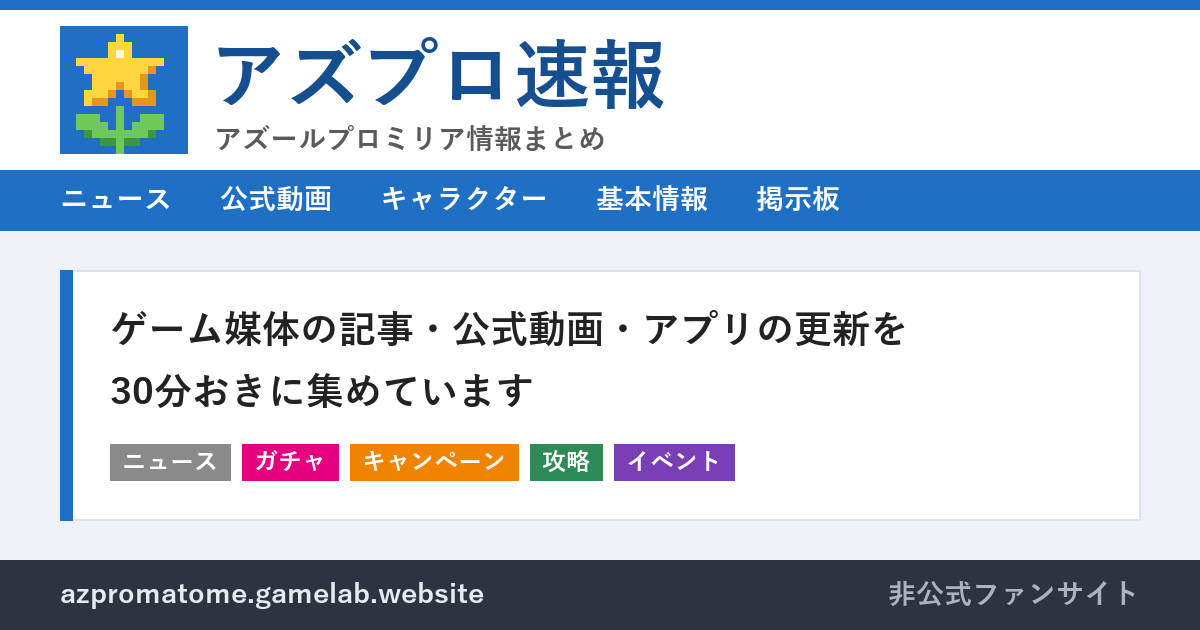
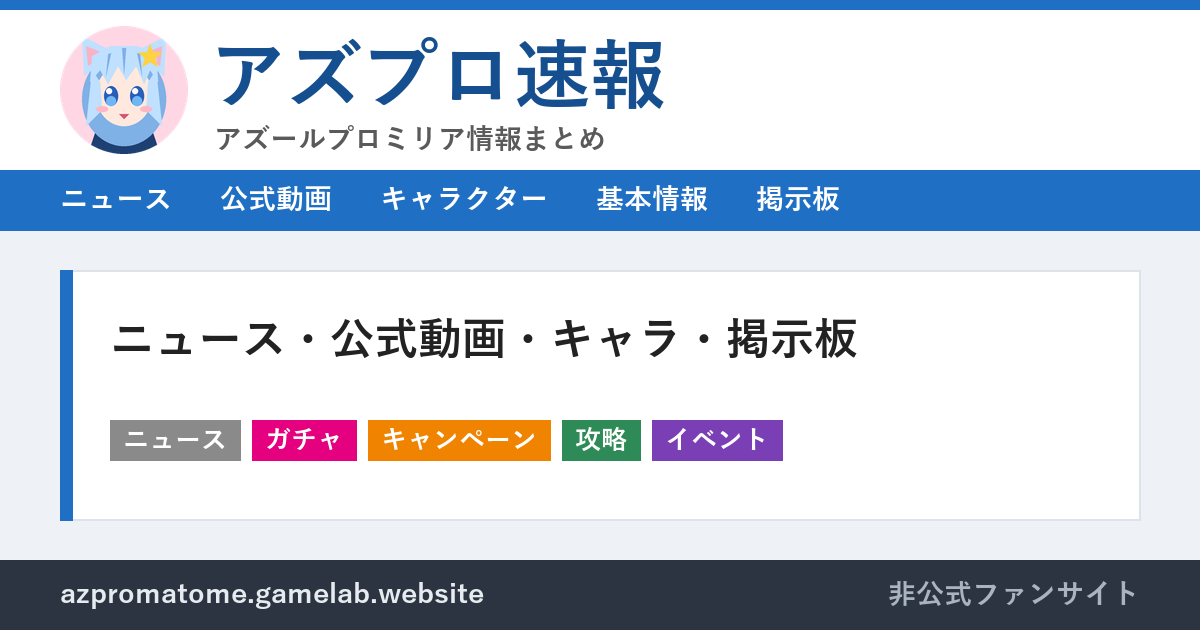
アイコンを女の子にし、説明文を減らし、トップの並びに変化をつける
- ロゴ・ファビコンをケモミミの女の子の顔（オリジナル）に変更
- 一覧の前置きや注記、掲示板の案内文などの説明を削除。キャラ紹介も短くする
- トップの一番上に大小 3 つの注目記事、話題と最新動画を並べ、
  キャラクターは立ち絵の横スクロール、公式動画は暗い帯にする
- サイドの再生数ランキングに順位を付ける

Changed region(s): [[0.0925, 0.573, 0.6783, 0.7841], [0.0925, 0.4825, 0.7708, 0.573], [0.0308, 0.0302, 0.1542, 0.2714]]

diff --git a/site/assets/app.css b/site/assets/app.css
@@ -80,10 +80,24 @@ h1.sec-t { font-size: 20px; }
 
 .noimg { display: flex; align-items: center; justify-content: center; width: 100%; aspect-ratio: 1.91 / 1; background: #d9e8f7; color: #556; font-size: 12px; font-weight: bold; text-align: center; padding: 4px; }
 
+/* ---------- 一番上の注目記事（大 1 + 小 2） ---------- */
+.logo-h { margin: 0; font-size: inherit; }
+.fe { display: grid; grid-template-columns: minmax(0, 1.7fr) minmax(0, 1fr); grid-template-rows: 1fr 1fr; gap: 6px; margin-bottom: 14px; }
+.fe-i { position: relative; display: block; overflow: hidden; background: #223; color: #fff; min-height: 150px; }
+.fe-i:hover { text-decoration: none; }
+.fe-big { grid-row: 1 / 3; min-height: 320px; }
+.fe-i img { position: absolute; inset: 0; width: 100%; height: 100%; object-fit: cover; transition: transform .3s; }
+.fe-i:hover img { transform: scale(1.04); }
+.fe-c { position: absolute; left: 0; right: 0; bottom: 0; padding: 28px 12px 10px; background: linear-gradient(transparent, rgba(0, 0, 0, .82)); }
+.fe-c b { display: block; font-size: 14px; line-height: 1.45; text-shadow: 0 1px 2px rgba(0, 0, 0, .6); }
+.fe-big .fe-c b { font-size: 20px; }
+.fe-c small { display: block; font-size: 11px; color: #ddd; margin-top: 2px; }
+.fe-c .tag { margin-bottom: 4px; }
+
 /* ---------- いま話題 + 最新の動画 ---------- */
-.top-h { font-size: 13px; font-weight: normal; color: #555; margin: 0 0 8px; }
-.pick { display: grid; grid-template-columns: minmax(0, 1.25fr) minmax(0, 1fr); gap: 14px; background: var(--panel); border: 1px solid var(--line); padding: 12px; margin-bottom: 14px; }
+.pick { display: grid; grid-template-columns: minmax(0, 1fr) minmax(0, 1fr); gap: 14px; background: var(--panel); border: 1px solid var(--line); padding: 12px; margin-bottom: 14px; }
 .pick-h { font-size: 15px; margin: 0 0 6px; padding: 2px 8px; color: #fff; background: var(--red); display: inline-block; }
+.pick-h-v { background: #222; }
 .pick .v { margin: 0; }
 .pick-more { list-style: none; margin: 10px 0 0; padding: 8px 0 0; border-top: 1px dotted #ccc; }
 .pick-more li + li { margin-top: 8px; }
@@ -138,6 +152,25 @@ h1.sec-t { font-size: 20px; }
 .v-m { font-size: 12px; color: var(--muted); margin: 2px 0 0; }
 .v-m span { margin-left: 6px; }
 .gain { color: #1c8c3c; font-weight: bold; }
+
+/* ---------- 見出しの色ちがい ---------- */
+.sec-pink .sec-t { border-left-color: #e4007f; border-bottom-color: #e4007f; background: #fff3f8; }
+.sec-dark { background: #1c2230; border-color: #1c2230; color: #e8ecf2; }
+.sec-dark .sec-t { background: #0f131b; border-left-color: #ffd23f; border-bottom-color: #ffd23f; color: #fff; }
+.sec-dark .sec-more, .sec-dark .v-t a { color: #cfe3ff; }
+.sec-dark .v-m { color: #9aa6b6; }
+.sec-dark .gain { color: #7fe39a; }
+.vg-4 { grid-template-columns: repeat(4, minmax(0, 1fr)); }
+.vg-4 .v-t { font-size: 12.5px; }
+
+/* ---------- キャラクターの帯（横にスクロール） ---------- */
+.cs { display: flex; gap: 8px; overflow-x: auto; scroll-snap-type: x mandatory; padding-bottom: 6px; }
+.cs-i { position: relative; flex: 0 0 132px; scroll-snap-align: start; display: block; background: #f3f5fa; overflow: hidden; color: #fff; }
+.cs-i:hover { text-decoration: none; }
+.cs-i img, .cs-i .noimg { width: 132px; height: 158px; object-fit: cover; object-position: top; display: block; transition: transform .3s; }
+.cs-i:hover img { transform: scale(1.06); }
+.cs-n { position: absolute; left: 0; right: 0; bottom: 0; padding: 18px 6px 5px; font-size: 13px; font-weight: bold; background: linear-gradient(transparent, rgba(40, 0, 30, .75)); }
+.cs-n .badge { margin: 0 4px 0 0; font-style: normal; }
 
 /* ---------- キャラクター ---------- */
 .cg { list-style: none; margin: 0; padding: 0; display: grid; grid-template-columns: repeat(7, minmax(0, 1fr)); gap: 10px 6px; }
@@ -223,7 +256,12 @@ h1.sec-t { font-size: 20px; }
 .bl li { padding: 4px 0; border-bottom: 1px dotted #ccc; }
 .bl .muted { margin-left: 4px; font-size: 12px; }
 .sv { list-style: none; margin: 0; padding: 0; counter-reset: sv; }
-.sv li { padding: 6px 0; border-bottom: 1px dotted #ccc; font-size: 13px; line-height: 1.4; }
+.sv li { display: grid; grid-template-columns: 20px minmax(0, 1fr); gap: 6px; padding: 6px 0; border-bottom: 1px dotted #ccc; font-size: 13px; line-height: 1.4; }
+.sv .muted { grid-column: 2; }
+.rk { display: flex; align-items: center; justify-content: center; width: 20px; height: 20px; font-size: 12px; color: #fff; background: #9aa6b6; }
+.rk-1 { background: #d4a017; }
+.rk-2 { background: #8f9bab; }
+.rk-3 { background: #b06d34; }
 .sv a { display: grid; grid-template-columns: 96px minmax(0, 1fr); gap: 8px; align-items: start; }
 .sv-img, .sv .noimg { width: 96px; aspect-ratio: 16 / 9; object-fit: cover; }
 .sv .muted { display: block; text-align: right; font-size: 11px; }
@@ -288,6 +326,14 @@ h1.sec-t { font-size: 20px; }
   .sec { padding: 10px; margin-bottom: 10px; }
   .sec-t { margin: -10px -10px 10px; font-size: 16px; }
   .pick { grid-template-columns: minmax(0, 1fr); padding: 10px; }
+  .fe { grid-template-columns: minmax(0, 1fr) minmax(0, 1fr); grid-template-rows: auto auto; gap: 4px; }
+  .fe-big { grid-column: 1 / 3; grid-row: auto; min-height: 220px; }
+  .fe-i { min-height: 120px; }
+  .fe-big .fe-c b { font-size: 16px; }
+  .fe-c b { font-size: 12.5px; }
+  .vg-4 { grid-template-columns: repeat(2, minmax(0, 1fr)); }
+  .cs-i { flex-basis: 112px; }
+  .cs-i img, .cs-i .noimg { width: 112px; height: 134px; }
   .n-lead { grid-template-columns: minmax(0, 1fr); gap: 8px; }
   .n-lead .n-a { font-size: 16px; }
   .n-grid, .vg { grid-template-columns: repeat(2, minmax(0, 1fr)); gap: 12px 8px; }
@@ -303,3 +349,6 @@ h1.sec-t { font-size: 20px; }
   .tb th { width: 6.5em; }
   .shots img, .shots .noimg { height: 200px; }
 }
+.v-m .ctag { margin-left: 6px; }
+.fe-c b { display: -webkit-box; -webkit-box-orient: vertical; -webkit-line-clamp: 3; overflow: hidden; }
+@media (max-width: 640px) { .fe-c b { -webkit-line-clamp: 2; } .fe-big .fe-c b { -webkit-line-clamp: 3; } .fe-c { padding-top: 20px; } }

diff --git a/site/assets/app.js b/site/assets/app.js
@@ -40,7 +40,7 @@
       if (!rc) return;
       var items = ((j && j.items) || []).slice(0, 6);
       if (!items.length) {
-        rc.innerHTML = '<li class="muted">まだ書き込みはありません。<a href="/bbs/talk/">雑談</a>に一番乗りでどうぞ。</li>';
+        rc.innerHTML = '<li class="muted">書き込みはありません</li>';
         return;
       }
       rc.innerHTML = items

diff --git a/site/assets/comments.js b/site/assets/comments.js
@@ -79,7 +79,7 @@
     function render() {
       $("cCount").textContent = items.length ? "（" + items.length + "）" : "";
       if (!items.length) {
-        $("cList").innerHTML = '<p class="c-empty">まだコメントはありません。</p>';
+        $("cList").innerHTML = '<p class="c-empty">書き込みはありません</p>';
         return;
       }
       $("cList").innerHTML = items

diff --git a/scripts/make-og.py b/scripts/make-og.py
@@ -1,6 +1,7 @@
 """ロゴ・ファビコン・OGP 画像を作る。
 
-ロゴは 16x16 のドット絵の星と双葉（オリジナル）を拡大したもの。公式の絵は使わない。
+ロゴはケモミミの女の子の顔（オリジナル）。図形を並べて描き、PNG/ICO は大きく描いてから縮小、
+favicon.svg は同じ図形をそのまま SVG にする。公式の絵は使わない。
 文字は Windows の游ゴシック（Bold）。無い環境ではフォントのパスを書き換えて使う。
 
 使い方: python scripts/make-og.py
@@ -13,61 +14,90 @@ SITE = ROOT / "site"
 FONT = "C:/Windows/Fonts/YuGothB.ttc"
 DOMAIN = "azpromatome.gamelab.website"
 
-# B=青の地 Y=星 O=星の影 G=双葉 D=双葉の影 W=光
-SPRITE = [
-    "BBBBBBBBBBBBBBBB",
-    "BBBBBBBYBBBBBBBB",
-    "BBBBBBYYYBBBBBBB",
-    "BBBBBBYWYBBBBBBB",
-    "BBYYYYYYYYYYYBBB",
-    "BBBYYYYYYYYOBBBB",
-    "BBBBYYYYYYOBBBBB",
-    "BBBBYYYOYYOBBBBB",
-    "BBBYYYOBOYYOBBBB",
-    "BBBYOOBBBOOOBBBB",
-    "BBBBBBBGBBBBBBBB",
-    "BBGGGBBGBBGGGBBB",
-    "BBGGGGBGBGGGGBBB",
-    "BBBDGGGGGGGDBBBB",
-    "BBBBBDDGDDBBBBBB",
-    "BBBBBBBGBBBBBBBB",
-]
-COLORS = {
-    "B": (31, 111, 197, 255),
-    "Y": (255, 214, 64, 255),
-    "O": (230, 150, 30, 255),
-    "W": (255, 250, 220, 255),
-    "G": (110, 200, 90, 255),
-    "D": (60, 150, 70, 255),
-}
 BLUE = (31, 111, 197)
 BLUE_D = (22, 79, 143)
 
+HAIR = "#bfe0ff"
+HAIR_D = "#7fb0e6"
+SKIN = "#ffe9de"
+EYE = "#2a5fb8"
+EYE_L = "#6fb6f5"
 
-def sprite(scale):
-    im = Image.new("RGBA", (16, 16), (0, 0, 0, 0))
-    for y, row in enumerate(SPRITE):
-        for x, c in enumerate(row):
-            if c in COLORS:
-                im.putpixel((x, y), COLORS[c])
-    return im.resize((16 * scale, 16 * scale), Image.NEAREST)
+# 64x64 の座標で描く。("e", 色, x0, y0, x1, y1) は楕円、("p", 色, [点...]) は多角形
+SHAPES = [
+    ("e", "#ffd6e4", 0, 0, 64, 64),  # 背景の丸
+    ("p", "#1d3f72", [(14, 64), (18, 52), (32, 49), (46, 52), (50, 64)]),  # 服
+    ("p", "#ffffff", [(27, 50), (32, 56), (37, 50)]),  # 襟
+    ("e", HAIR_D, 11, 13, 53, 60),  # 後ろ髪
+    ("p", HAIR, [(12, 25), (11, 5), (27, 13)]),  # 左の耳
+    ("p", HAIR, [(52, 25), (53, 5), (37, 13)]),  # 右の耳
+    ("p", "#f6b3c6", [(14, 20), (13, 10), (23, 14)]),
+    ("p", "#f6b3c6", [(50, 20), (51, 10), (41, 14)]),
+    ("e", SKIN, 18, 19, 46, 50),  # 顔
+    ("p", HAIR, [(15, 28), (16, 15), (25, 10), (39, 10), (48, 15), (49, 28), (45, 22), (42, 29), (38, 20), (33, 27), (29, 20), (24, 29), (20, 22)]),  # 前髪
+    ("p", HAIR_D, [(31, 11), (33, 11), (32, 24)]),
+    ("p", HAIR_D, [(24, 14), (25.5, 13.5), (23, 25)]),
+    ("p", HAIR_D, [(40, 14), (38.5, 13.5), (41, 25)]),
+    ("p", HAIR, [(16, 22), (13, 50), (21, 42), (20, 28)]),  # 左の横髪
+    ("p", HAIR, [(48, 22), (51, 50), (43, 42), (44, 28)]),  # 右の横髪
+    ("e", EYE, 22, 30, 29, 40),  # 目
+    ("e", EYE, 35, 30, 42, 40),
+    ("e", EYE_L, 23, 35, 28, 40),
+    ("e", EYE_L, 36, 35, 41, 40),
+    ("e", "#ffffff", 23, 31, 26, 34),
+    ("e", "#ffffff", 36, 31, 39, 34),
+    ("e", "#ffb7c5", 18, 40, 24, 43),  # ほお
+    ("e", "#ffb7c5", 40, 40, 46, 43),
+    ("p", "#d9546e", [(29.5, 44), (34.5, 44), (32, 46.5)]),  # 口
+    ("p", "#ffd23f", [(45, 9), (46.6, 13), (51, 13.3), (47.6, 16), (48.8, 20.5), (45, 18), (41.2, 20.5), (42.4, 16), (39, 13.3), (43.4, 13)]),  # 星の髪飾り
+]
+
+
+def render(size):
+    s = 8  # 大きく描いてから縮める
+    big = 64 * s
+    im = Image.new("RGBA", (big, big), (0, 0, 0, 0))
+    d = ImageDraw.Draw(im)
+    for sh in SHAPES:
+        if sh[0] == "e":
+            _, c, x0, y0, x1, y1 = sh
+            d.ellipse([x0 * s, y0 * s, x1 * s, y1 * s], fill=c)
+        else:
+            _, c, pts = sh
+            d.polygon([(x * s, y * s) for x, y in pts], fill=c)
+    # 丸の外に出た部分（服・耳）を切る
+    mask = Image.new("L", (big, big), 0)
+    ImageDraw.Draw(mask).ellipse([0, 0, big - 1, big - 1], fill=255)
+    out = Image.new("RGBA", (big, big), (0, 0, 0, 0))
+    out.paste(im, (0, 0), mask)
+    return out.resize((size, size), Image.LANCZOS)
+
+
+def svg():
+    parts = []
+    for sh in SHAPES:
+        if sh[0] == "e":
+            _, c, x0, y0, x1, y1 = sh
+            parts.append(f'<ellipse cx="{(x0 + x1) / 2:g}" cy="{(y0 + y1) / 2:g}" rx="{(x1 - x0) / 2:g}" ry="{(y1 - y0) / 2:g}" fill="{c}"/>')
+        else:
+            _, c, pts = sh
+            parts.append(f'<polygon points="{" ".join(f"{x:g},{y:g}" for x, y in pts)}" fill="{c}"/>')
+    return (
+        '<svg xmlns="http://www.w3.org/2000/svg" viewBox="0 0 64 64"><clipPath id="c"><circle cx="32" cy="32" r="32"/></clipPath><g clip-path="url(#c)">'
+        + "".join(parts)
+        + "</g></svg>\n"
+    )
 
 
 def icons():
     (SITE / "assets").mkdir(parents=True, exist_ok=True)
-    sprite(5).save(SITE / "assets" / "logo-mark.png", optimize=True)  # 80x80（ヘッダーで 40px 表示）
-    sprite(2).save(SITE / "favicon-32.png", optimize=True)
-    sprite(16).save(SITE / "favicon.ico", sizes=[(16, 16), (32, 32), (48, 48)])
-    sprite(11).resize((180, 180), Image.NEAREST).convert("RGB").save(SITE / "apple-touch-icon.png", optimize=True)
-    rects = []
-    for y, row in enumerate(SPRITE):
-        for x, c in enumerate(row):
-            r, g, b, _ = COLORS[c]
-            rects.append(f'<rect x="{x}" y="{y}" width="1" height="1" fill="#{r:02x}{g:02x}{b:02x}"/>')
-    (SITE / "favicon.svg").write_text(
-        '<svg xmlns="http://www.w3.org/2000/svg" viewBox="0 0 16 16" shape-rendering="crispEdges">' + "".join(rects) + "</svg>\n",
-        encoding="utf-8",
-    )
+    render(96).save(SITE / "assets" / "logo-mark.png", optimize=True)  # ヘッダーで 40px 表示
+    render(32).save(SITE / "favicon-32.png", optimize=True)
+    render(256).save(SITE / "favicon.ico", sizes=[(16, 16), (32, 32), (48, 48)])
+    touch = Image.new("RGBA", (180, 180), (255, 255, 255, 255))
+    touch.alpha_composite(render(164), (8, 8))
+    touch.convert("RGB").save(SITE / "apple-touch-icon.png", optimize=True)
+    (SITE / "favicon.svg").write_text(svg(), encoding="utf-8")
     print("wrote icons")
 
 
@@ -75,10 +105,9 @@ def og():
     W, H = 1200, 630
     im = Image.new("RGBA", (W, H), (238, 242, 246, 255))
     d = ImageDraw.Draw(im)
-    # 上の帯（サイトのヘッダーと同じ並び）
     d.rectangle([0, 0, W, 10], fill=BLUE + (255,))
     d.rectangle([0, 10, W, 170], fill=(255, 255, 255, 255))
-    im.alpha_composite(sprite(8), (60, 26))
+    im.alpha_composite(render(128), (60, 26))
     f_logo = ImageFont.truetype(FONT, 76)
     f_small = ImageFont.truetype(FONT, 28)
     d.text((210, 78), "アズプロ速報", font=f_logo, fill=BLUE_D, anchor="lm")
@@ -89,22 +118,18 @@ def og():
     for t in ["ニュース", "公式動画", "キャラクター", "基本情報", "掲示板"]:
         d.text((x, 200), t, font=f_nav, fill=(255, 255, 255), anchor="lm")
         x += d.textlength(t, font=f_nav) + 48
-
-    # 本文の白い枠
     d.rectangle([60, 270, 1140, 520], fill=(255, 255, 255, 255), outline=(221, 227, 234), width=2)
     d.rectangle([60, 270, 72, 520], fill=BLUE + (255,))
-    f_mid = ImageFont.truetype(FONT, 38)
-    d.text((110, 330), "ゲーム媒体の記事・公式動画・アプリの更新を", font=f_mid, fill=(34, 34, 34), anchor="lm")
-    d.text((110, 392), "30分おきに集めています", font=f_mid, fill=(34, 34, 34), anchor="lm")
+    f_mid = ImageFont.truetype(FONT, 44)
+    d.text((110, 340), "ニュース・公式動画・キャラ・掲示板", font=f_mid, fill=(34, 34, 34), anchor="lm")
     tags = [("ニュース", (138, 138, 138)), ("ガチャ", (228, 0, 127)), ("キャンペーン", (240, 131, 0)), ("攻略", (46, 139, 87)), ("イベント", (123, 63, 181))]
-    f_tag = ImageFont.truetype(FONT, 24)
+    f_tag = ImageFont.truetype(FONT, 26)
     x = 110
     for t, c in tags:
-        w = d.textlength(t, font=f_tag) + 24
-        d.rectangle([x, 444, x + w, 480], fill=c)
-        d.text((x + w / 2, 462), t, font=f_tag, fill=(255, 255, 255), anchor="mm")
+        w = d.textlength(t, font=f_tag) + 26
+        d.rectangle([x, 420, x + w, 460], fill=c)
+        d.text((x + w / 2, 440), t, font=f_tag, fill=(255, 255, 255), anchor="mm")
         x += w + 12
-
     d.rectangle([0, 560, W, H], fill=(43, 52, 64, 255))
     d.text((60, 595), DOMAIN, font=f_small, fill=(230, 235, 240), anchor="lm")
     d.text((1140, 595), "非公式ファンサイト", font=f_small, fill=(170, 180, 190), anchor="rm")
